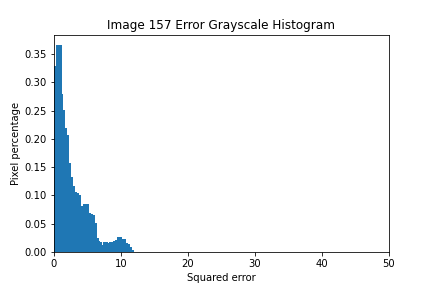
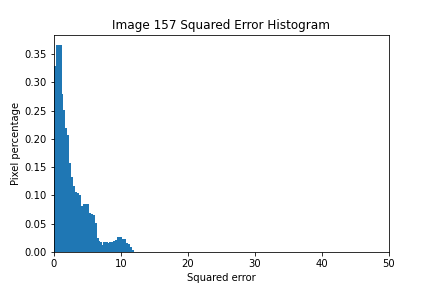
Update name plot

Changed region(s): [[0.2407, 0.0625, 0.7824, 0.125]]

diff --git a/Week1/task3.py b/Week1/task3.py
@@ -62,7 +62,7 @@ def plotErrorHistogram(img, outputFile):
     histogram, bin_edges = np.histogram(img, bins=50, density=True)
     center = (bin_edges[:-1] + bin_edges[1:]) / 2
     plt.figure()
-    plt.title("Image " + outputFile + " Error Grayscale Histogram")
+    plt.title("Image " + outputFile + " Squared Error Histogram")
     plt.xlabel("Squared error")
     plt.ylabel("Pixel percentage")
     plt.xlim([0, 50])
